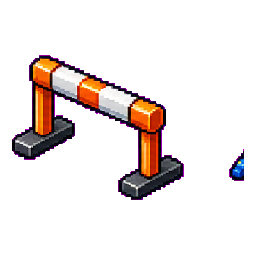
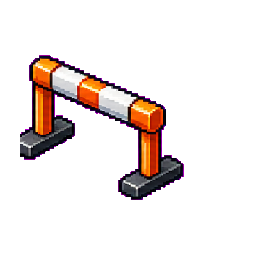
Remove sprite atlas edge bleed

Changed region(s): [[0.875, 0.5938, 0.9688, 0.7188], [0.0312, 0.5, 0.0938, 0.625]]

diff --git a/tools/build_pixel_art_assets.py b/tools/build_pixel_art_assets.py
@@ -35,12 +35,60 @@ def clear_atlas_gutters(image: Image.Image) -> Image.Image:
     return rgba
 
 
+def keep_largest_component(image: Image.Image) -> Image.Image:
+    """Keep the intended sprite and discard disconnected neighboring-atlas debris."""
+    rgba = image.copy()
+    alpha = rgba.getchannel("A")
+    width, height = rgba.size
+    visible = alpha.load()
+    visited: set[tuple[int, int]] = set()
+    components: list[list[tuple[int, int]]] = []
+
+    for y in range(height):
+        for x in range(width):
+            if visible[x, y] == 0 or (x, y) in visited:
+                continue
+            component: list[tuple[int, int]] = []
+            stack = [(x, y)]
+            visited.add((x, y))
+            while stack:
+                current_x, current_y = stack.pop()
+                component.append((current_x, current_y))
+                for next_x, next_y in (
+                    (current_x - 1, current_y),
+                    (current_x + 1, current_y),
+                    (current_x, current_y - 1),
+                    (current_x, current_y + 1),
+                ):
+                    if (
+                        0 <= next_x < width
+                        and 0 <= next_y < height
+                        and visible[next_x, next_y] > 0
+                        and (next_x, next_y) not in visited
+                    ):
+                        visited.add((next_x, next_y))
+                        stack.append((next_x, next_y))
+            components.append(component)
+
+    if not components:
+        return rgba
+
+    keep = set(max(components, key=len))
+    for component in components:
+        if component and component[0] not in keep:
+            for x, y in component:
+                visible[x, y] = 0
+    rgba.putalpha(alpha)
+    return rgba
+
+
 def export_atlas(
     source_name: str,
     names: list[str],
     destination: Path,
     target: int,
     clear_gutters: bool = False,
+    remove_fragments: bool = False,
 ) -> None:
     source = Image.open(SOURCE_DIR / source_name).convert("RGBA")
     destination.mkdir(parents=True, exist_ok=True)
@@ -49,9 +97,12 @@ def export_atlas(
         left = round(index * cell_width)
         right = round((index + 1) * cell_width)
         sprite = remove_magenta(source.crop((left, 0, right, source.height)))
+        original_alpha_box = sprite.getchannel("A").getbbox()
         if clear_gutters:
             sprite = clear_atlas_gutters(sprite)
-        alpha_box = sprite.getchannel("A").getbbox()
+        if remove_fragments:
+            sprite = keep_largest_component(sprite)
+        alpha_box = original_alpha_box if remove_fragments else sprite.getchannel("A").getbbox()
         if not alpha_box:
             raise RuntimeError(f"No visible sprite found for {name}")
         sprite = sprite.crop(alpha_box)
@@ -76,12 +127,16 @@ def main() -> None:
         [f"hydration_lv{level}" for level in range(1, 7)],
         ITEM_DIR,
         256,
+        clear_gutters=True,
+        remove_fragments=True,
     )
     export_atlas(
         "training_atlas.png",
         [f"training_lv{level}" for level in range(1, 7)],
         ITEM_DIR,
         256,
+        clear_gutters=True,
+        remove_fragments=True,
     )
     export_atlas(
         "trophy_atlas.png",
